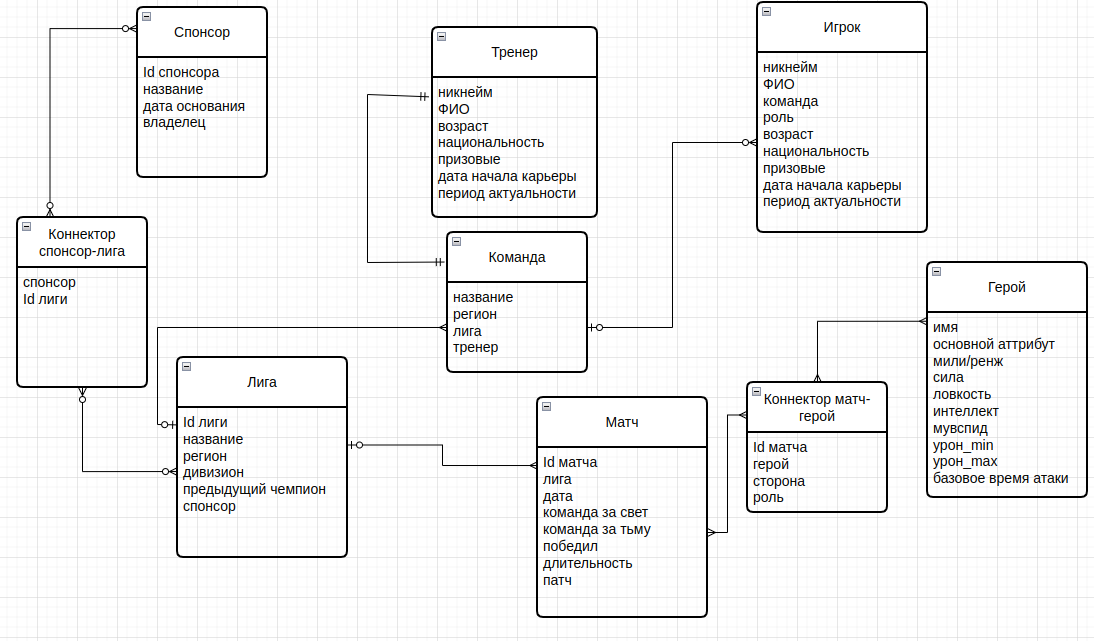
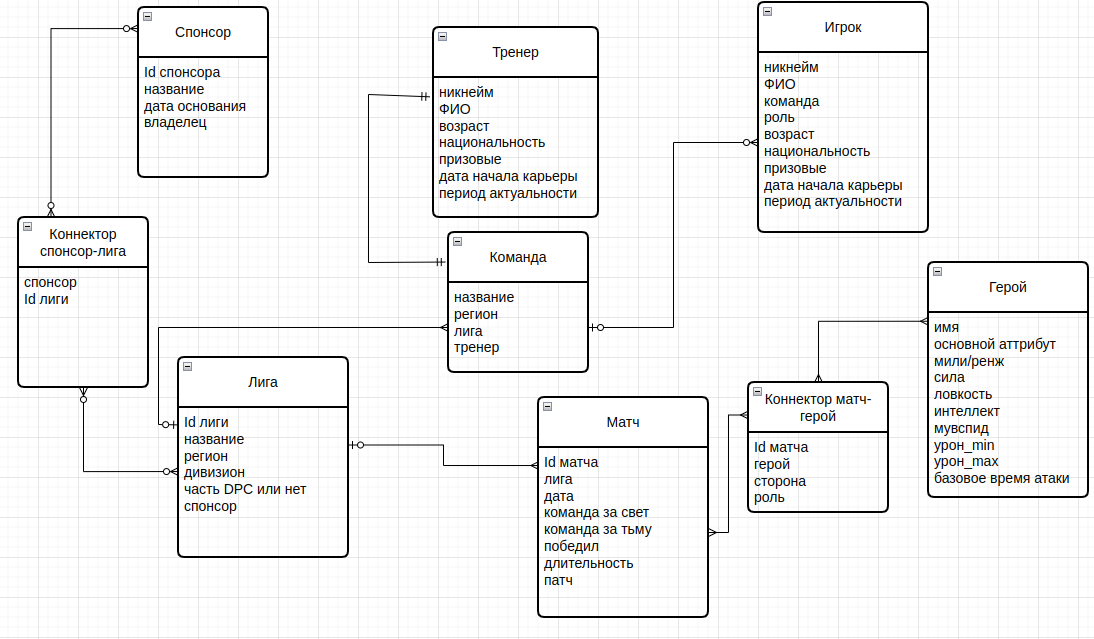
inserts

diff --git a/docs/physical-model.md b/docs/physical-model.md
@@ -25,14 +25,13 @@
 
 ## League
 
-| Название          | Описание | Тип данных |
-|-------------------| --- | --- |
-| league_id         | идентификатор | INTEGER |
-| league_name       | название | VARCHAR(50) |
-| region            | регион | VARCHAR(50) |
-| division          | дивизион | INTEGER |
-| prev_champ_name   | название команды-предыдущего чемпиона | VARCHAR(50) |
-| league_sponsor_id | спонсор | VARCHAR(50) |
+| Название          | Описание      | Тип данных  |
+|-------------------|---------------|-------------|
+| league_id         | идентификатор | INTEGER     |
+| league_name       | название      | VARCHAR(50) |
+| region            | регион        | VARCHAR(50) |
+| division          | дивизион      | INTEGER     |
+| in_dpc            | часть DPC     | BOOL        |
 
 ## Player
 
@@ -80,12 +79,12 @@
 
 ## Company
 
-| Название | Описание | Тип данных |
-| --- | --- | --- |
-| company_id | идентификатор | INTEGER |
-| company_name | название | VARCHAR(50) |
-| foundation_date | дата | TIMESTAMP |
-| owner | владелец | VARCHAR(50) |
+| Название        | Описание        | Тип данных |
+|-----------------|-----------------| --- |
+| company_id      | идентификатор   | INTEGER |
+| company_name    | название        | VARCHAR(50) |
+| foundation_date | дата            | TIMESTAMP |
+| key_figure      | ключевая фигура | VARCHAR(50) |
 
 ## League_Sponsor
 
